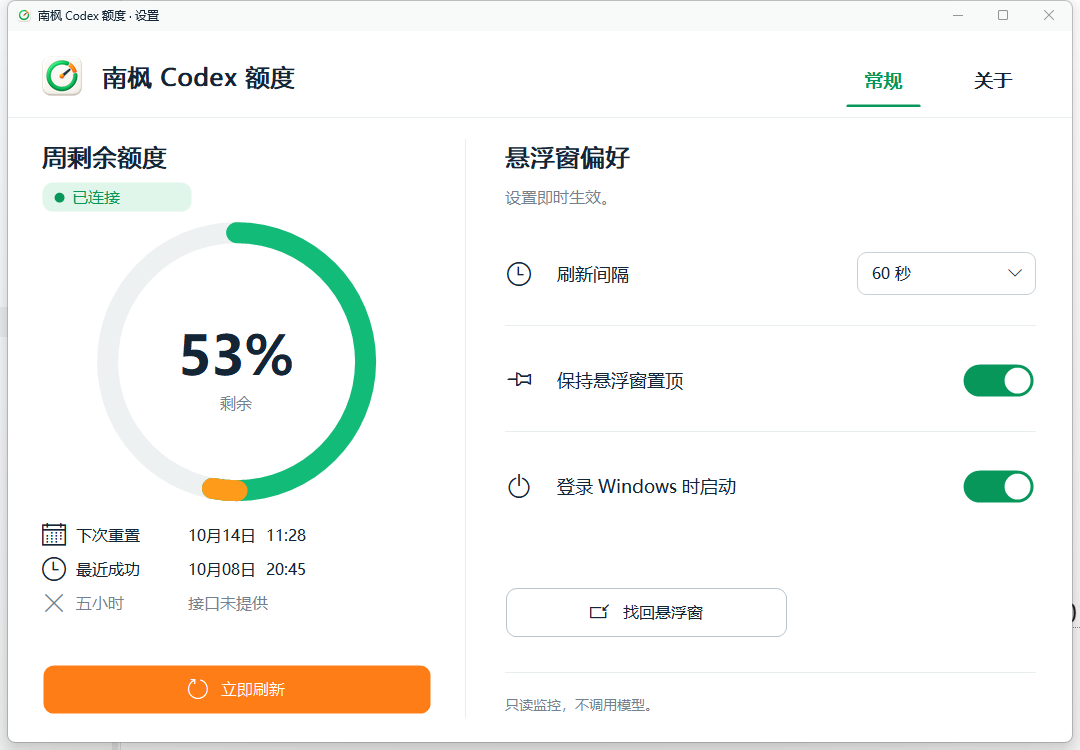
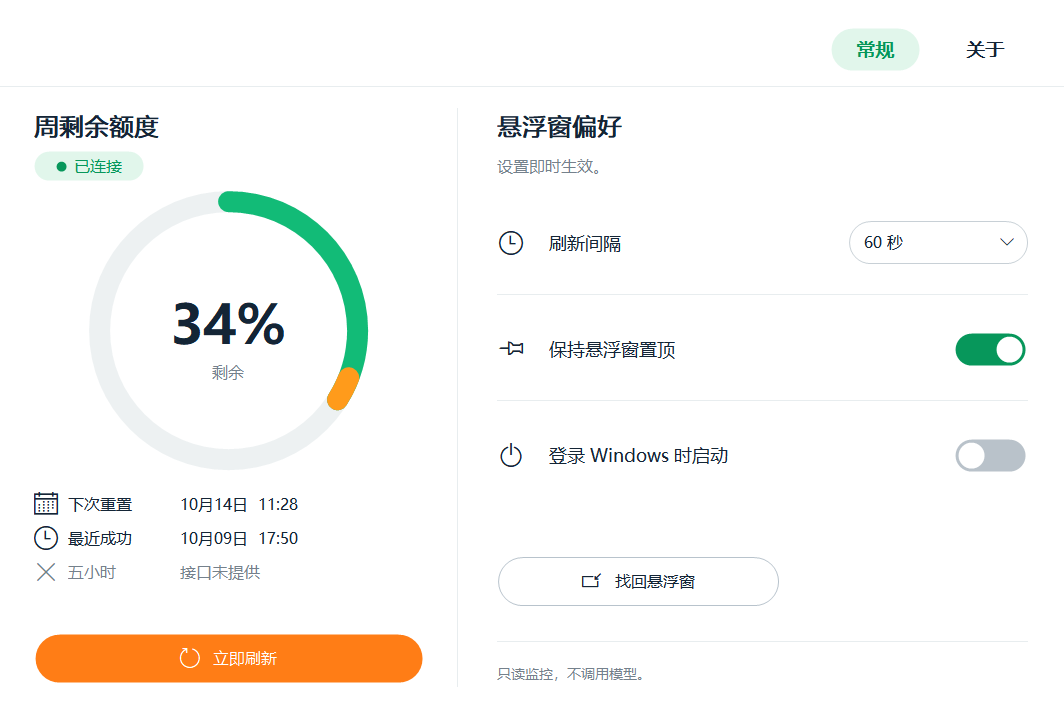
Unify capsule controls and guarantee explicit main window visibility

diff --git a/src/desktop/settings_view.rs b/src/desktop/settings_view.rs
@@ -211,14 +211,14 @@ impl Layout {
         let data = self.ring_y + self.ring + 20;
         let center = self.ring_y + self.ring / 2;
         match id {
-            T_GENERAL => (self.width - 234, 22, 90, 54),
-            T_ABOUT => (self.width - 124, 22, 90, 54),
+            T_GENERAL => (self.width - 234, 27, 90, 44),
+            T_ABOUT => (self.width - 124, 27, 90, 44),
             GITHUB_LINK => {
                 let width = 660.min(self.width - 96);
                 ((self.width - width) / 2 + 24, 414, width - 48, 28)
             }
             502 => (34, 108, self.left_width, 36),
-            503 => (34, 151, 150, 30),
+            503 => (34, 151, 110, 30),
             504 => (self.ring_x + self.ring / 2 - 80, center - 42, 160, 70),
             505 => (self.ring_x + self.ring / 2 - 50, center + 29, 100, 26),
             506 => (68, data, 114, 28),
@@ -575,6 +575,10 @@ unsafe extern "system" fn control_proc(
             1
         }
         WM_ERASEBKGND => 1,
+        WM_PRINTCLIENT => {
+            draw_control(hwnd, w as HDC, data);
+            0
+        }
         WM_PAINT => {
             let mut ps: PAINTSTRUCT = zeroed();
             let dc = BeginPaint(hwnd, &mut ps);
@@ -779,13 +783,24 @@ unsafe fn draw_control(hwnd: HWND, dc: HDC, data: &Control) {
             };
             canvas.rounded(
                 (0.0, 0.0, width as f32 - 1.0, height as f32 - 1.0),
-                s(10) as f32,
+                (height - 1) as f32 / 2.0,
                 bg,
                 None,
             );
+            let mut measure: RECT = zeroed();
+            let old = SelectObject(dc, data.font);
+            DrawTextW(
+                dc,
+                wide(&label).as_ptr(),
+                -1,
+                &mut measure,
+                DT_CALCRECT | DT_SINGLELINE,
+            );
+            SelectObject(dc, old);
+            let left = (width - measure.right - s(18)) / 2;
             canvas.rounded(
                 (
-                    s(12) as f32,
+                    left as f32,
                     (height - s(10)) as f32 / 2.0,
                     s(10) as f32,
                     s(10) as f32,
@@ -799,7 +814,7 @@ unsafe fn draw_control(hwnd: HWND, dc: HDC, data: &Control) {
                 data.font,
                 &label,
                 RECT {
-                    left: s(30),
+                    left: left + s(18),
                     ..rect
                 },
                 color,
@@ -807,11 +822,11 @@ unsafe fn draw_control(hwnd: HWND, dc: HDC, data: &Control) {
             );
         }
         Kind::Nav { selected } => {
-            if data.hover.get() {
+            if selected || data.hover.get() {
                 canvas.rounded(
                     (1.0, 1.0, (width - 2) as f32, (height - 2) as f32),
-                    s(8) as f32,
-                    0xfff6faf8,
+                    (height - 2) as f32 / 2.0,
+                    if selected { 0xffe1f6eb } else { 0xfff6faf8 },
                     None,
                 );
             }
@@ -823,19 +838,6 @@ unsafe fn draw_control(hwnd: HWND, dc: HDC, data: &Control) {
                 if selected { GREEN } else { DARK },
                 centered,
             );
-            if selected {
-                canvas.rounded(
-                    (
-                        s(8) as f32,
-                        (height - s(3)) as f32,
-                        (width - s(16)) as f32,
-                        s(3) as f32,
-                    ),
-                    s(1) as f32,
-                    GREEN,
-                    None,
-                );
-            }
         }
         Kind::Toggle => {
             let checked = SendMessageW(hwnd, BM_GETCHECK, 0, 0) == BST_CHECKED as isize;
@@ -870,7 +872,7 @@ unsafe fn draw_control(hwnd: HWND, dc: HDC, data: &Control) {
         Kind::Choice => {
             canvas.rounded(
                 (1.0, 1.0, (width - 2) as f32, (height - 2) as f32),
-                s(9) as f32,
+                (height - 2) as f32 / 2.0,
                 WHITE,
                 Some(if GetFocus() == hwnd {
                     GREEN
@@ -947,7 +949,7 @@ unsafe fn draw_control(hwnd: HWND, dc: HDC, data: &Control) {
             };
             canvas.rounded(
                 (1.0, 1.0, (width - 2) as f32, (height - 2) as f32),
-                s(10) as f32,
+                (height - 2) as f32 / 2.0,
                 color,
                 if primary { None } else { Some(0xffb8c3cc) },
             );
@@ -1019,11 +1021,7 @@ unsafe fn draw_control(hwnd: HWND, dc: HDC, data: &Control) {
     {
         canvas.rounded(
             (2.0, 2.0, (width - 4) as f32, (height - 4) as f32),
-            match data.kind {
-                Kind::Toggle => (height - 4) as f32 / 2.0,
-                Kind::Nav { .. } => s(6) as f32,
-                _ => s(8) as f32,
-            },
+            (height - 4) as f32 / 2.0,
             0x00000000,
             Some(0xff56b990),
         );

diff --git a/src/desktop.rs b/src/desktop.rs
@@ -783,6 +783,16 @@ unsafe fn write_diagnostics(app: &App) {
 unsafe fn open_settings(app: &mut App) {
     if !app.settings.is_null() {
         ShowWindow(app.settings, SW_RESTORE);
+        // An explicit user action must show the window even after a hidden launcher startup.
+        SetWindowPos(
+            app.settings,
+            null_mut(),
+            0,
+            0,
+            0,
+            0,
+            SWP_NOMOVE | SWP_NOSIZE | SWP_NOZORDER | SWP_SHOWWINDOW,
+        );
         SetForegroundWindow(app.settings);
         return;
     }
@@ -806,6 +816,15 @@ unsafe fn open_settings(app: &mut App) {
     settings_view::configure_chrome(app.settings);
     rebuild_settings(app);
     ShowWindow(app.settings, SW_SHOW);
+    SetWindowPos(
+        app.settings,
+        null_mut(),
+        0,
+        0,
+        0,
+        0,
+        SWP_NOMOVE | SWP_NOSIZE | SWP_NOZORDER | SWP_SHOWWINDOW,
+    );
     SetForegroundWindow(app.settings);
 }
 unsafe fn rebuild_settings(app: &mut App) {
@@ -956,6 +975,13 @@ unsafe extern "system" fn settings_proc(hwnd: HWND, msg: u32, w: WPARAM, l: LPAR
             SetBkMode(w as HDC, TRANSPARENT as i32);
             SetTextColor(w as HDC, rgb(25, 39, 51));
             app.background as isize
+        }
+        WM_PRINTCLIENT => {
+            let mut rect: RECT = zeroed();
+            GetClientRect(hwnd, &mut rect);
+            FillRect(w as HDC, &rect, app.background);
+            settings_view::paint(app, w as HDC);
+            0
         }
         WM_ERASEBKGND => {
             let mut r: RECT = zeroed();

diff --git a/README.md b/README.md
@@ -7,7 +7,7 @@
 ![额度状态与设置](docs/images/settings.png)
 ![关于](docs/images/about.png)
 
-预览来自 v0.1.3 在 Windows 上的真实运行界面。
+预览为 v0.1.4 在 Windows 上的真实运行界面客户端区域。
 
 - 显示周剩余额度；接口提供五小时窗口时，在设置中同步列出。
 - 连接失败保留最近成功值，并明确显示异常或过期状态。
